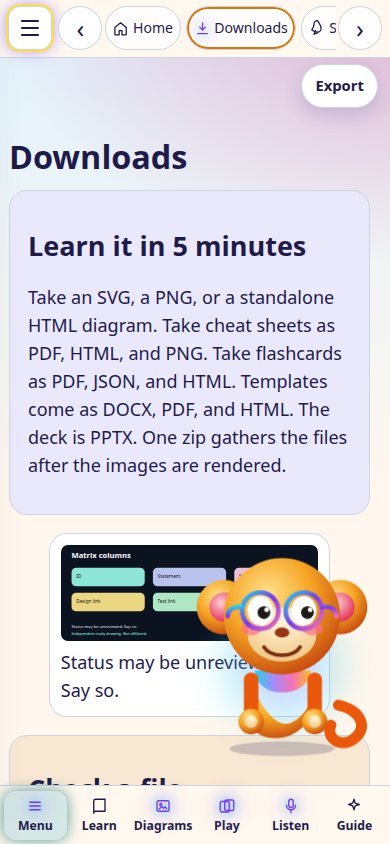
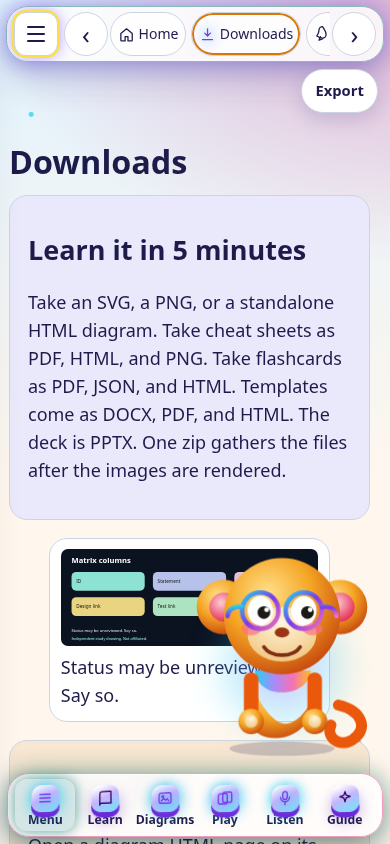
Float the menus and let the guide read along the page.
The top and bottom bars sit off the edges with glow and depth. Themes, tiles, and icons pick up more motion, and that motion stops when reduced motion is on. Listen scrolls to the section being spoken and highlights it, with the voice picker in the guide.

diff --git a/assets/css/lab.css b/assets/css/lab.css
@@ -1014,3 +1014,199 @@ body.onboard-open .ba-nudge { visibility: hidden; }
   .brand-icons, .ob-spot { animation: none; }
 }
 html[data-motion="reduce"] .brand-icons { animation: none; }
+
+/* Floating chrome, depth, and motion. Reduced motion turns the motion off. */
+body::before {
+  content: "";
+  position: fixed;
+  inset: -8vh 0 auto;
+  height: 120vh;
+  z-index: 0;
+  pointer-events: none;
+  background-image:
+    radial-gradient(circle at 8% 18%, #22d3ee 0 2px, transparent 3px),
+    radial-gradient(circle at 22% 72%, #f472b6 0 2px, transparent 3px),
+    radial-gradient(circle at 48% 28%, #fde047 0 2px, transparent 3px),
+    radial-gradient(circle at 70% 64%, #a78bfa 0 2.5px, transparent 3.5px),
+    radial-gradient(circle at 86% 16%, #43e660 0 2px, transparent 3px),
+    radial-gradient(circle at 92% 80%, #22d3ee 0 2px, transparent 3px);
+  opacity: 0.7;
+  transform: translate3d(0, calc(var(--shift, 0px) * -0.65), 0);
+  animation: drift-bits 16s linear infinite;
+}
+@keyframes drift-bits {
+  50% { opacity: 0.95; }
+}
+.top-chrome, main, .site-footer { position: relative; z-index: 1; }
+.top-chrome {
+  position: sticky;
+  top: 0.5rem;
+  width: min(1180px, calc(100% - 1.1rem));
+  margin: 0.5rem auto 0.2rem;
+  padding: 0.35rem 0.5rem;
+  border-radius: 22px;
+  border: 1px solid color-mix(in srgb, var(--a) 50%, white);
+  background: color-mix(in srgb, var(--card) 84%, transparent);
+  box-shadow:
+    0 16px 34px rgba(49, 46, 129, 0.24),
+    0 0 22px color-mix(in srgb, var(--b) 42%, transparent),
+    inset 0 1px 0 rgba(255, 255, 255, 0.55);
+  backdrop-filter: blur(12px);
+}
+.phone-bar {
+  display: grid;
+  grid-template-columns: repeat(6, minmax(0, 1fr));
+  position: fixed;
+  z-index: 36;
+  left: 50%;
+  bottom: 0.65rem;
+  transform: translateX(-50%);
+  width: min(36rem, calc(100% - 1.3rem));
+  border-radius: 22px;
+  border: 1px solid color-mix(in srgb, var(--c) 45%, white);
+  background: color-mix(in srgb, var(--card) 88%, transparent);
+  box-shadow:
+    0 18px 36px rgba(15, 23, 42, 0.28),
+    0 0 24px color-mix(in srgb, var(--a) 48%, transparent),
+    inset 0 1px 0 rgba(255, 255, 255, 0.6);
+  backdrop-filter: blur(14px);
+  padding: 0.28rem 0.4rem;
+}
+.phone-bar a, .phone-bar button {
+  display: flex;
+  flex-direction: column;
+  align-items: center;
+  justify-content: center;
+  gap: 1px;
+  border: 0;
+  background: transparent;
+  color: var(--ink);
+  text-decoration: none;
+  font-size: 0.68rem;
+  font-weight: 800;
+  line-height: 1.1;
+  min-width: 0;
+  min-height: 52px;
+  padding: 0.2rem 0.05rem;
+  border-radius: 14px;
+}
+.bar-ico {
+  width: 28px;
+  height: 28px;
+  display: grid;
+  place-items: center;
+  border-radius: 10px;
+  color: #3b0764;
+  background: linear-gradient(155deg, #fff 10%, #c4b5fd 48%, #67e8f9);
+  box-shadow: 0 5px 0 #6d28d9, 0 8px 14px rgba(91, 33, 182, 0.35);
+  transform: perspective(90px) rotateX(16deg) rotateY(-10deg);
+}
+.phone-bar .glow-ico .bar-ico {
+  box-shadow: 0 5px 0 #6d28d9, 0 0 14px #22d3ee;
+}
+.phone-bar a:hover .bar-ico,
+.phone-bar button:hover .bar-ico,
+.tile-ico:hover,
+.room-tile:hover .tile-ico {
+  transform: perspective(90px) rotateX(8deg) rotateY(8deg) translateY(-2px);
+}
+.tile-ico {
+  background: linear-gradient(155deg, #fff 8%, #e9d5ff 42%, #67e8f9);
+  box-shadow: 0 6px 0 #5b21b6, 0 0 16px rgba(34, 211, 238, 0.7);
+  transform: perspective(90px) rotateX(14deg) rotateY(-12deg);
+}
+.depth-card svg, .menu-link svg {
+  padding: 4px;
+  border-radius: 8px;
+  background: linear-gradient(160deg, #fff, #ddd6fe);
+  box-shadow: 0 4px 0 #7c3aed;
+}
+.room-tile, .depth-card, .chip, .stat {
+  transition: transform 180ms ease, box-shadow 180ms ease;
+}
+.room-tile:hover, .stat:hover { transform: translateY(-6px); }
+.tone-a:hover { transform: translateY(-12px); }
+.tone-b:hover, .tone-d:hover { transform: translateY(-8px); }
+.tone-c:hover { transform: translateY(-2px); }
+.chip:hover { transform: translateY(-2px); }
+.hero-vivid { background-position: center calc(var(--shift, 0px) * -0.35); }
+main [data-read] { scroll-margin-top: 6.5rem; scroll-margin-bottom: 7rem; }
+.is-reading {
+  outline: 3px solid #f59e0b;
+  border-radius: 16px;
+  box-shadow: 0 0 0 6px rgba(251, 191, 36, 0.5), 0 0 28px rgba(167, 139, 250, 0.9);
+  animation: read-glow 1.3s ease-in-out infinite;
+}
+@keyframes read-glow {
+  50% { box-shadow: 0 0 0 9px rgba(253, 224, 71, 0.55), 0 0 34px rgba(34, 211, 238, 0.8); }
+}
+.read-sent.is-spoken {
+  background: linear-gradient(90deg, #fde68a, #fbcfe8);
+  box-shadow: 0 0 12px #fde047;
+  border-radius: 4px;
+}
+html[data-theme="neon"],
+html[data-theme="holographic"],
+html[data-theme="cyberpunk"],
+html[data-theme="sunset"],
+html[data-theme="midnight"] {
+  --line: color-mix(in srgb, var(--a) 45%, transparent);
+  --focus: var(--d);
+  --shadow: 0 18px 40px rgba(0, 0, 0, 0.45);
+}
+html[data-theme="neon"] body,
+html[data-theme="cyberpunk"] body,
+html[data-theme="holographic"] body {
+  background:
+    radial-gradient(700px 320px at 0% 0%, color-mix(in srgb, var(--a) 55%, transparent), transparent 60%),
+    radial-gradient(640px 360px at 100% 0%, color-mix(in srgb, var(--c) 50%, transparent), transparent 55%),
+    linear-gradient(180deg, var(--bg2), var(--bg) 24rem);
+}
+html[data-theme="contrast"] .top-chrome,
+html[data-theme="contrast"] .phone-bar {
+  background: #000;
+  color: #fff;
+  border: 2px solid #fff;
+  box-shadow: none;
+  backdrop-filter: none;
+}
+html[data-theme="contrast"] .bar-ico,
+html[data-theme="contrast"] .tile-ico {
+  background: #000;
+  color: #ffe600;
+  box-shadow: inset 0 0 0 2px #ffe600;
+  transform: none;
+}
+.site-footer { padding-bottom: 6.2rem; }
+@media (max-width: 800px) {
+  .top-chrome {
+    top: 0.35rem;
+    width: calc(100% - 0.7rem);
+    margin: 0.35rem auto 0;
+    padding: 0.28rem 0.35rem;
+  }
+  .phone-bar {
+    left: 0.4rem;
+    right: 0.4rem;
+    bottom: 0.4rem;
+    width: auto;
+    transform: none;
+  }
+  .site-footer { padding-bottom: calc(236px + 6.5rem); }
+}
+@media (prefers-reduced-motion: reduce) {
+  body::before, .is-reading, .brand-icons { animation: none; }
+  .room-tile:hover, .stat:hover, .chip:hover,
+  .tone-a:hover, .tone-b:hover, .tone-c:hover, .tone-d:hover,
+  .phone-bar a:hover .bar-ico, .phone-bar button:hover .bar-ico,
+  .tile-ico:hover, .room-tile:hover .tile-ico { transform: none; }
+}
+html[data-motion="reduce"] body::before,
+html[data-motion="reduce"] .is-reading { animation: none; }
+html[data-motion="reduce"] .room-tile:hover,
+html[data-motion="reduce"] .stat:hover,
+html[data-motion="reduce"] .chip:hover,
+html[data-motion="reduce"] .tone-a:hover,
+html[data-motion="reduce"] .tone-b:hover,
+html[data-motion="reduce"] .tone-c:hover,
+html[data-motion="reduce"] .tone-d:hover { transform: none; }

diff --git a/guide/guide.css b/guide/guide.css
@@ -96,6 +96,8 @@ body[data-menu="open"] .ba-guide { visibility: hidden; }
   background: linear-gradient(90deg, #99f6e4, #c7d2fe, #fbcfe8);
 }
 .ba-panel h2 { margin: 0; font-size: 1rem; }
+.ba-pick { display: flex; align-items: center; gap: 0.35rem; margin: 0.15rem 0 0; font-size: 0.78rem; font-weight: 700; }
+.ba-pick select { min-height: 36px; max-width: 11rem; border-radius: 999px; border: 1px solid #d6d3d1; background: #fff; color: #1c1917; }
 .ba-panel header button, .ba-form button, .ba-chips button, .ba-nudge button, .ba-voice button {
   min-height: 44px;
   min-width: 44px;
@@ -158,12 +160,17 @@ body[data-menu="open"] .ba-guide { visibility: hidden; }
 .sent.is-on, .read-sent.is-spoken { background: #fde68a; border-radius: 4px; }
 .is-reading {
   outline: 3px solid #f59e0b;
-  box-shadow: 0 0 0 6px rgba(251, 191, 36, 0.35);
+  border-radius: 16px;
+  box-shadow: 0 0 0 6px rgba(251, 191, 36, 0.45), 0 0 28px rgba(167, 139, 250, 0.9);
+  animation: ba-read-glow 1.3s ease-in-out infinite;
+}
+@keyframes ba-read-glow {
+  50% { box-shadow: 0 0 0 8px rgba(253, 224, 71, 0.55), 0 0 36px rgba(34, 211, 238, 0.85); }
 }
 .chip.is-live, .menu-link.is-live { box-shadow: 0 0 0 3px #f59e0b; }
 @keyframes blink { 0%, 92%, 100% { transform: scaleY(1); } 96% { transform: scaleY(0.12); } }
 @media (max-width: 800px) {
-  .ba-guide { top: auto; bottom: 4.6rem; width: 200px; height: 236px; }
+  .ba-guide { top: auto; bottom: 5.7rem; width: 200px; height: 236px; }
   .ba-monkey, .ba-monkey svg { width: 200px; height: 236px; }
   .ba-guide.is-greeting { width: 220px; height: 260px; }
   .ba-guide.is-greeting .ba-monkey,
@@ -175,44 +182,47 @@ body[data-menu="open"] .ba-guide { visibility: hidden; }
     left: 0.45rem;
     right: 0.45rem;
     top: auto;
-    bottom: 4.5rem;
+    bottom: 5.35rem;
     width: auto;
     height: auto;
     max-height: 30vh;
     border-radius: 16px 16px 0 0;
     z-index: 37;
   }
-  .ba-panel header { padding: 0.28rem 0.45rem; }
+  .ba-panel header { padding: 0.2rem 0.4rem; }
   .ba-panel h2 { font-size: 0.95rem; }
-  .ba-status { margin: 0; font-size: 0.8rem; line-height: 1.15; }
-  .ba-scroll { overflow: auto; flex: 0 0 auto; max-height: 3.15rem; }
+  .ba-status { display: none; }
+  .ba-pick { font-size: 0.72rem; }
+  .ba-pick select { min-height: 32px; max-width: 8.2rem; }
+  .ba-scroll { overflow: auto; flex: 0 0 auto; max-height: 2.7rem; }
   .ba-log { max-height: none; overflow: visible; padding: 0.12rem 0.35rem 0; gap: 0; }
   .ba-bubble { padding: 0.12rem 0.4rem; font-size: 0.7rem; line-height: 1.15; }
-  .ba-panel { max-height: 32vh; }
   .ba-choices {
     display: grid;
     grid-template-columns: 1fr 1fr;
     gap: 0.28rem;
     padding: 0.15rem 0.4rem 0.28rem;
   }
-  .ba-choices button { padding: 0.1rem 0.45rem; font-size: 0.82rem; }
-  .ba-form { padding: 0.22rem 0.3rem; }
+  .ba-choices button { min-height: 38px; padding: 0.05rem 0.4rem; font-size: 0.8rem; }
+  .ba-panel header button, .ba-form input, .ba-form button { min-height: 38px; }
+  .ba-form { padding: 0.15rem 0.3rem; }
   .ba-guide:not(.is-greeting) .ba-nudge {
     position: fixed;
     top: auto;
     right: auto;
     left: 0.45rem;
-    bottom: 5.4rem;
+    bottom: 6.3rem;
     width: min(16rem, calc(100vw - 13.5rem));
   }
 }
 @media (prefers-reduced-motion: reduce) {
-  .ba-float, .ba-eye, .ba-arm, .ba-head, .ba-soft { animation: none; }
+  .ba-float, .ba-eye, .ba-arm, .ba-head, .ba-soft, .is-reading { animation: none; }
   .is-reading { box-shadow: none; }
 }
 html[data-motion="reduce"] .ba-float,
 html[data-motion="reduce"] .ba-eye,
 html[data-motion="reduce"] .ba-arm,
 html[data-motion="reduce"] .ba-head,
-html[data-motion="reduce"] .ba-soft { animation: none; }
+html[data-motion="reduce"] .ba-soft,
+html[data-motion="reduce"] .is-reading { animation: none; }
 html[data-motion="reduce"] .is-reading { box-shadow: none; }

diff --git a/guide/guide.js b/guide/guide.js
@@ -35,12 +35,12 @@ host.innerHTML =
   '<button type="button" class="ba-monkey" aria-expanded="false" aria-controls="ba-guide-panel" aria-label="BA guide">' +
   monkeySvg() + "</button>" +
   '<section class="ba-panel" id="ba-guide-panel" hidden role="dialog" aria-modal="false" aria-labelledby="ba-guide-title">' +
-  '<header><div><h2 id="ba-guide-title">BA guide</h2><p class="ba-status">Voice is off</p></div>' +
+  '<header><div><h2 id="ba-guide-title">BA guide</h2><p class="ba-status">Voice is off</p>' +
+  '<label class="ba-pick">Voice <select data-voice-pick aria-label="Voice"></select></label></div>' +
   '<div class="ba-actions"><button type="button" data-hide>Hide</button><button type="button" data-close>Close</button></div></header>' +
   '<div class="ba-scroll">' +
   '<div class="ba-log" role="log" aria-live="polite"></div>' +
   '<div class="ba-voice">' +
-  '<label>Voice <select data-voice-pick aria-label="Voice"></select></label>' +
   '<label>Rate <input data-rate type="range" min="0.7" max="1.15" step="0.05" value="0.9"></label>' +
   '<label>Pitch <input data-pitch type="range" min="0.8" max="1.2" step="0.05" value="0.96"></label>' +
   '<button type="button" data-sound>Soft sound off</button>' +
@@ -625,6 +625,11 @@ function readStep() {
   var sentences = ensureSentences(block);
   speakSentences(sentences, 0);
 }
+window.BA_READ_ALONG = function () {
+  openPanel(true);
+  setVoice(true);
+  startReadAlong(0);
+};
 function startReadAlong(index) {
   var blocks = document.querySelectorAll("main [data-read]");
   if (!blocks.length) {

diff --git a/assets/js/frame.js b/assets/js/frame.js
@@ -375,4 +375,20 @@
     localStorage.setItem(key, JSON.stringify(data));
   } catch (err) { /* ignore */ }
   window.BA_FRAME = { sections: SECTIONS, socials: SOCIALS, icon: svg };
+  var root = document.documentElement;
+  function motionOff() {
+    if (root.dataset.motion === "reduce") return true;
+    return window.matchMedia("(prefers-reduced-motion: reduce)").matches;
+  }
+  if (!motionOff()) {
+    var pending = false;
+    window.addEventListener("scroll", function () {
+      if (pending || motionOff()) return;
+      pending = true;
+      requestAnimationFrame(function () {
+        pending = false;
+        root.style.setProperty("--shift", Math.round((window.scrollY || 0) * 0.14) + "px");
+      });
+    }, { passive: true });
+  }
 })();

diff --git a/assets/js/app.js b/assets/js/app.js
@@ -41,6 +41,10 @@
     if (!btn) return;
     var utter = null;
     btn.addEventListener("click", function () {
+      if (window.BA_READ_ALONG) {
+        window.BA_READ_ALONG();
+        return;
+      }
       if (!window.speechSynthesis) {
         btn.textContent = "Speech is not available in this browser";
         return;
@@ -718,6 +722,10 @@
       window.BA_CATALOG = data;
       if (window.BA_SET_COUNTS && data.counts) window.BA_SET_COUNTS(data.counts);
       window.BA_SPEAK = function () {
+        if (window.BA_READ_ALONG) {
+          window.BA_READ_ALONG();
+          return;
+        }
         var text = data.narration || "";
         if (!window.speechSynthesis) return;
         if (speechSynthesis.speaking) {
